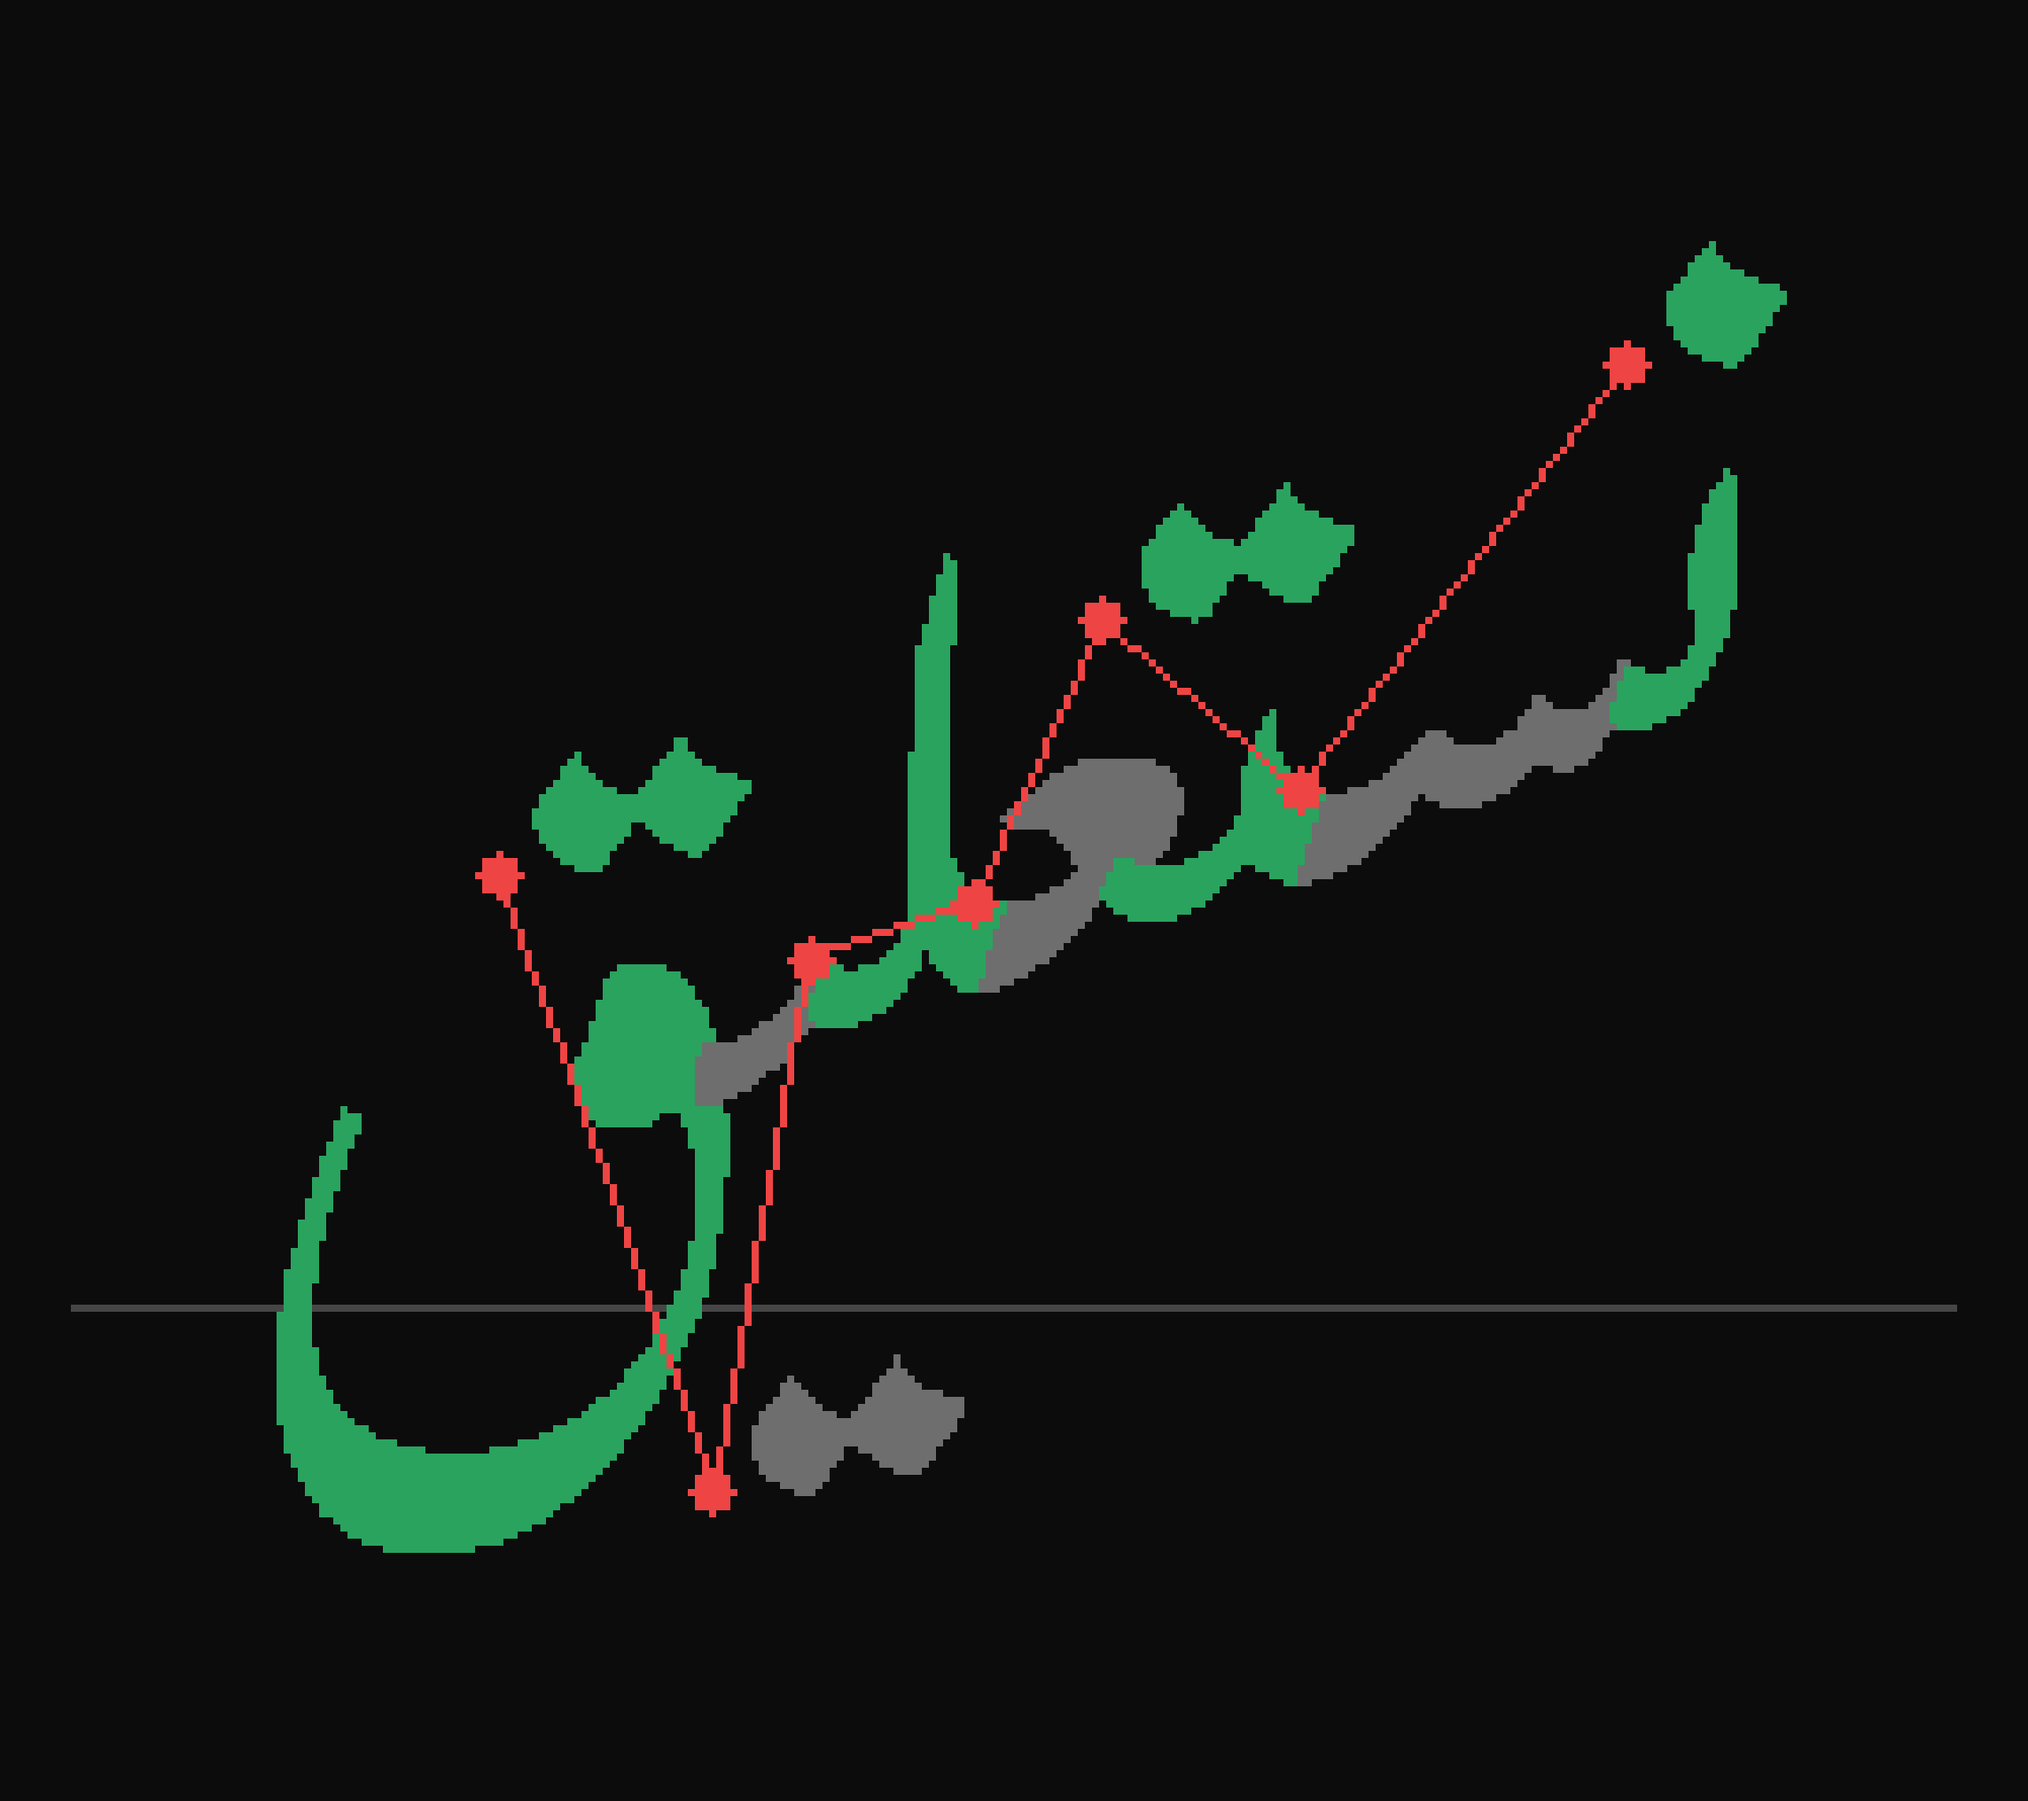
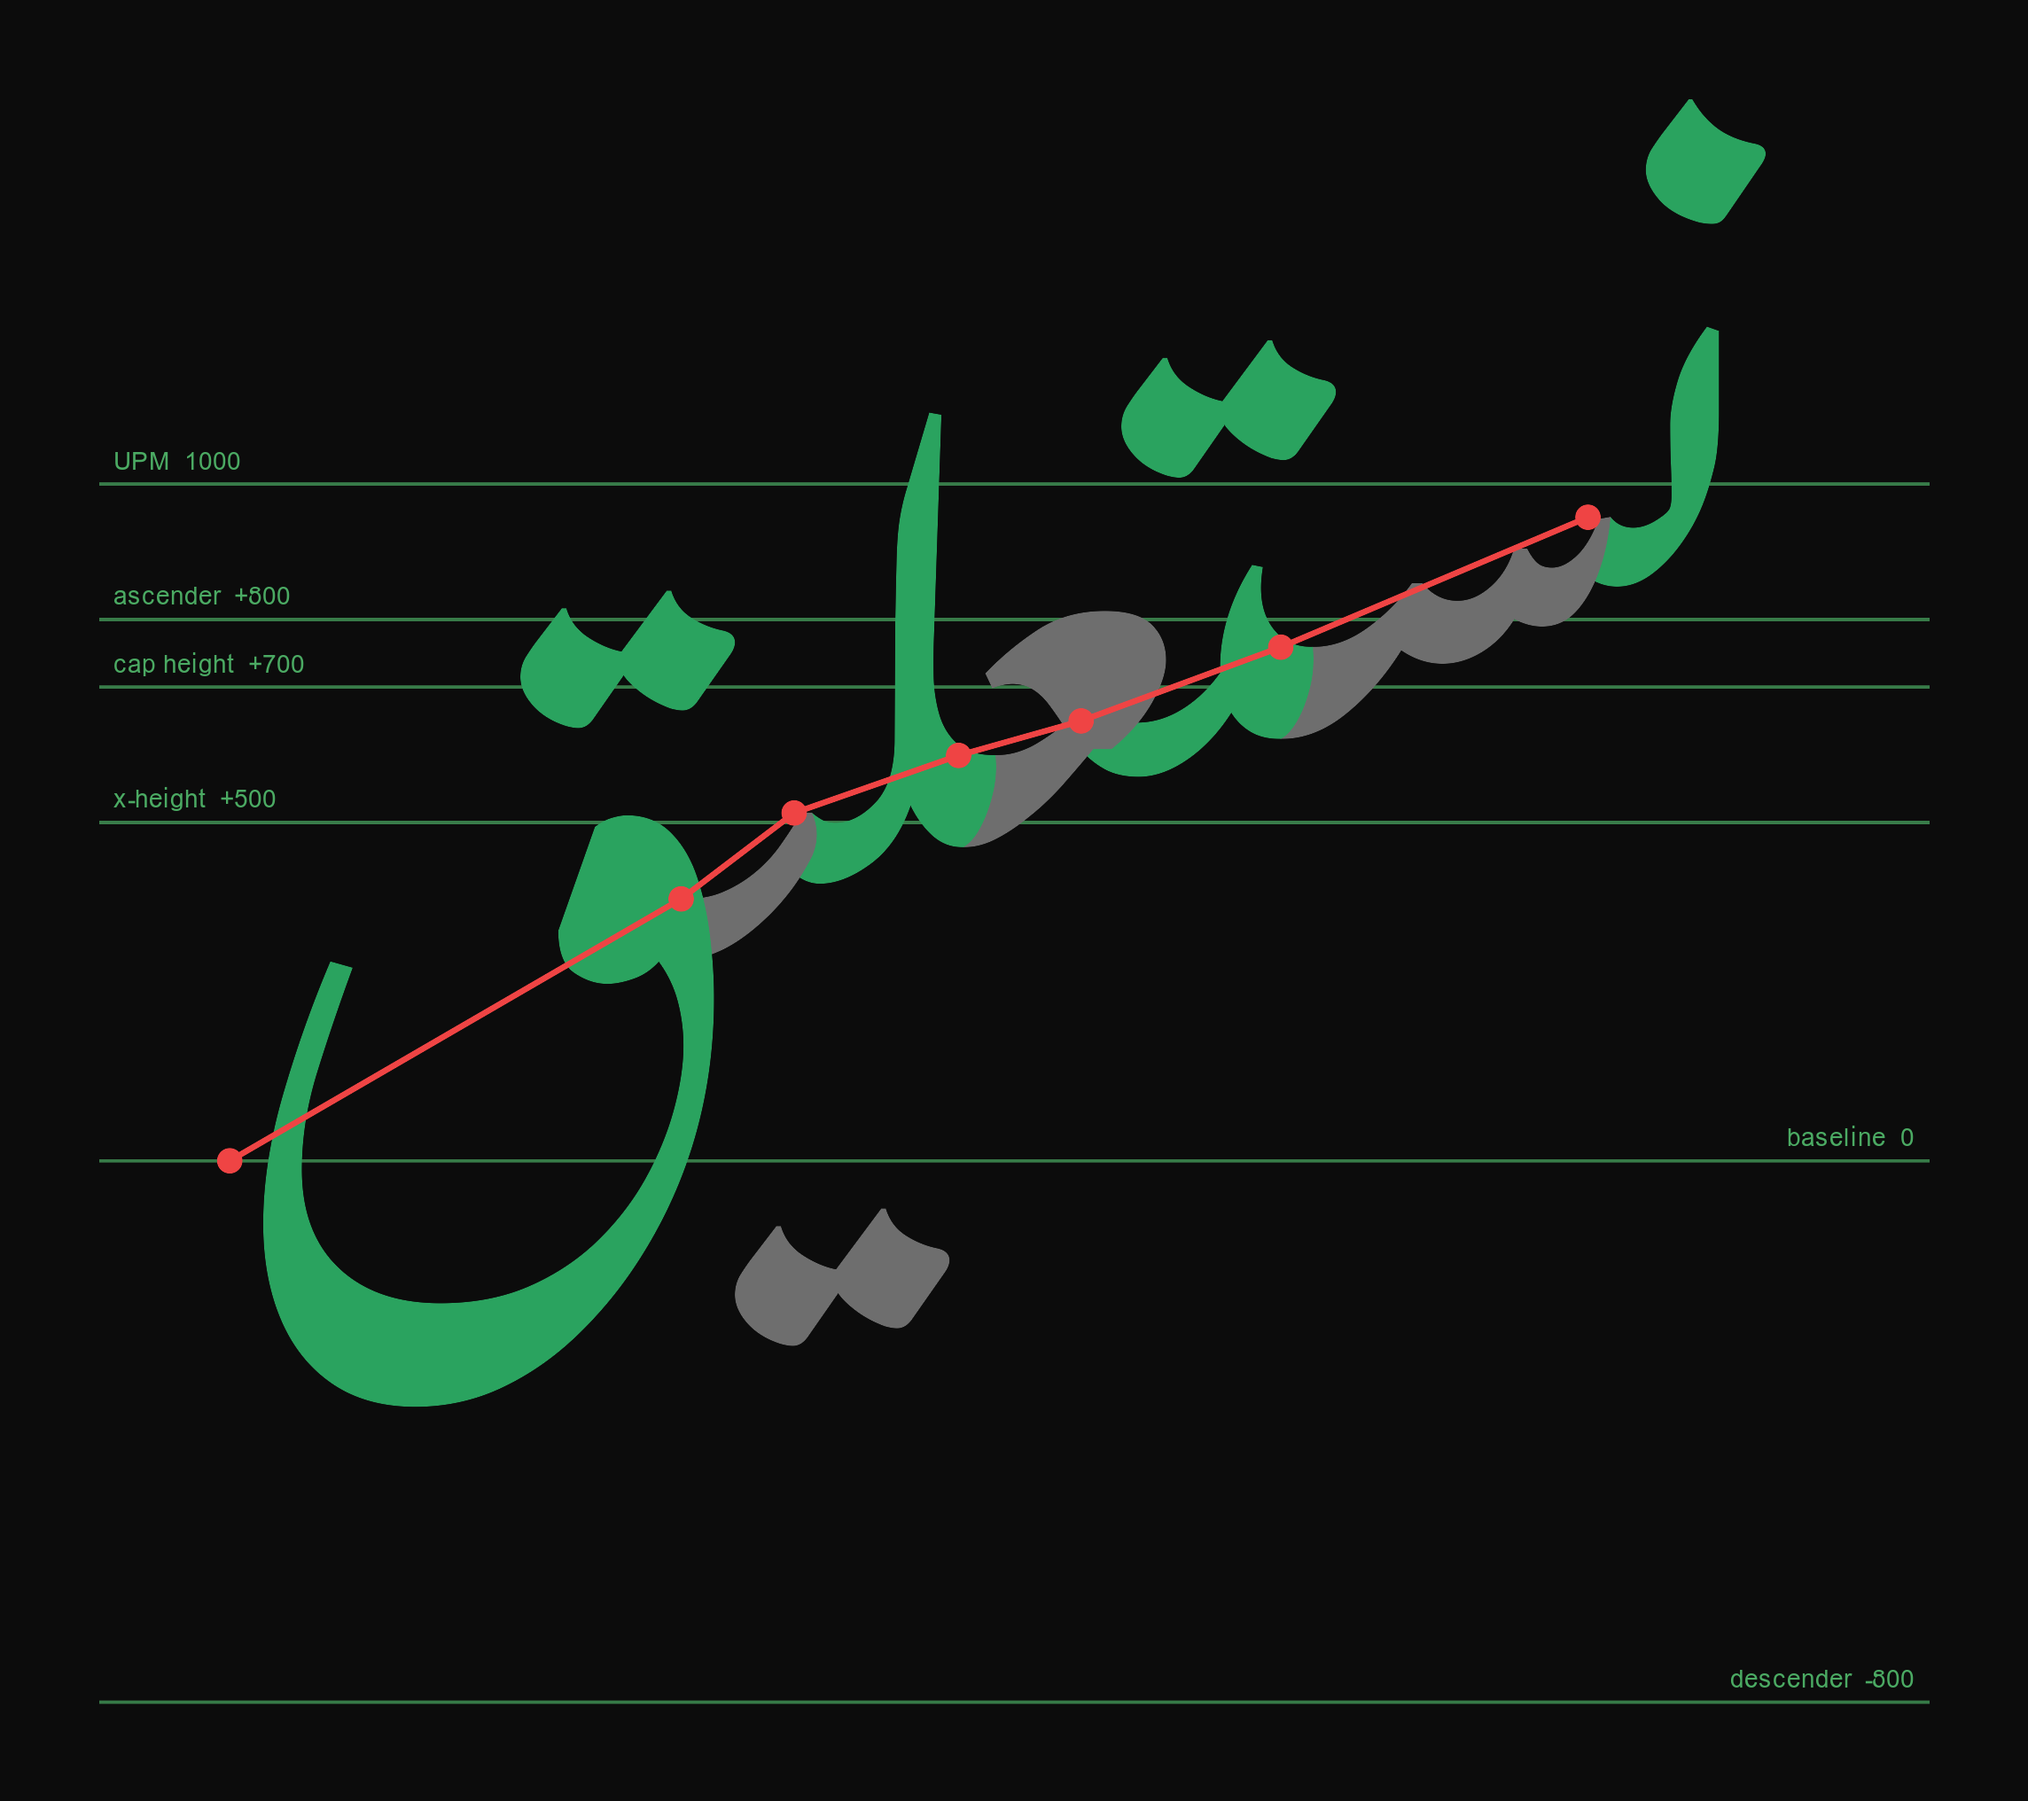
Update NeuralType Nastaliq blog post

diff --git a/scripts/nastaliq-distilled/render_cascade.py b/scripts/nastaliq-distilled/render_cascade.py
@@ -1,0 +1,181 @@
+#!/usr/bin/env python3
+"""Render the Gulzar cascade figure from the extracted cluster records."""
+
+import json
+import re
+import sys
+from pathlib import Path
+
+
+WORD = "نستعليق"
+WIDTH = 572
+HEIGHT = 508
+MARGIN = 28
+BACKGROUND = "#0c0c0c"
+GREEN = "#2aa35f"
+GRAY = "#6e6e6e"
+RED = "#ef4444"
+METRIC_GUIDE = "#66ee88"
+
+# Gulzar's master metrics from sources/Gulzar.glyphs. The compiled font uses
+# separate hhea and typo overrides for line spacing.
+UNITS_PER_EM = 1000
+ASCENDER = 800
+DESCENDER = -800
+X_HEIGHT = 500
+CAP_HEIGHT = 700
+
+# The first glyph in a Gulzar cluster is often a detached dot. These are the
+# main glyphs for the seven clusters in WORD, verified against glyphs.jsonl.
+EXPECTED_BASE_GIDS = [75, 641, 703, 40, 486, 686, 557]
+
+def path_bounds(path_d):
+    values = [float(value) for value in re.findall(r"-?\d+\.?\d*", path_d)]
+    xs = values[0::2]
+    ys = values[1::2]
+    return min(xs), min(ys), max(xs), max(ys)
+
+
+def load_data(source_repo):
+    extract = source_repo / "data" / "extract-gulzar"
+    glyph_paths = {}
+    with (extract / "glyphs.jsonl").open() as source:
+        for line in source:
+            record = json.loads(line)
+            glyph_paths[record["gid"]] = record["path"] or ""
+
+    clusters = []
+    with (extract / "contexts.jsonl").open() as source:
+        for line in source:
+            record = json.loads(line)
+            if record["word"] == WORD:
+                clusters.append(record)
+    clusters.sort(key=lambda record: record["index"])
+
+    base_gids = []
+    for index, cluster in enumerate(clusters):
+        base = next(
+            glyph
+            for glyph in cluster["glyphs"]
+            if glyph["gid"] == EXPECTED_BASE_GIDS[index]
+        )
+        cluster["base"] = base
+        base_gids.append(base["gid"])
+
+    if base_gids != EXPECTED_BASE_GIDS:
+        raise RuntimeError(f"unexpected base glyphs: {base_gids}")
+
+    return glyph_paths, clusters
+
+
+def render(glyph_paths, clusters):
+    placed = []
+    bounds = []
+    base_origins = []
+
+    for cluster in clusters:
+        cluster_paths = []
+        for glyph in cluster["glyphs"]:
+            path_d = glyph_paths[glyph["gid"]]
+            dx = cluster["ox"] + glyph["dx"]
+            dy = cluster["oy"] + glyph["dy"]
+            x0, y0, x1, y1 = path_bounds(path_d)
+            bounds.append((x0 + dx, y0 + dy, x1 + dx, y1 + dy))
+            cluster_paths.append((path_d, dx, dy))
+        placed.append(cluster_paths)
+
+        base = cluster["base"]
+        base_x = cluster["ox"] + base["dx"]
+        base_y = cluster["oy"] + base["dy"]
+        base_origins.append((base_x, base_y))
+
+    x0 = min(box[0] for box in bounds)
+    y0 = min(min(box[1] for box in bounds), DESCENDER)
+    x1 = max(box[2] for box in bounds)
+    y1 = max(max(box[3] for box in bounds), ASCENDER)
+    scale = min(
+        (WIDTH - 2 * MARGIN) / (x1 - x0),
+        (HEIGHT - 2 * MARGIN) / (y1 - y0),
+    )
+    tx = (WIDTH - (x1 - x0) * scale) / 2 - x0 * scale
+    ty = (HEIGHT - (y1 - y0) * scale) / 2 + y1 * scale
+
+    def point(x, y):
+        return tx + x * scale, ty - y * scale
+
+    elements = [f'<rect width="{WIDTH}" height="{HEIGHT}" fill="{BACKGROUND}"/>']
+
+    # Draw the five master metrics shown in Gulzar's Glyphs source.
+    metrics = (
+        (UNITS_PER_EM, "UPM  1000", "start"),
+        (ASCENDER, "ascender  +800", "start"),
+        (CAP_HEIGHT, "cap height  +700", "start"),
+        (X_HEIGHT, "x-height  +500", "start"),
+        (0, "baseline  0", "end"),
+        (DESCENDER, "descender  -800", "end"),
+    )
+    for height, label, anchor in metrics:
+        y = point(0, height)[1]
+        label_x = MARGIN + 4 if anchor == "start" else WIDTH - MARGIN - 4
+        elements.append(
+            f'<line x1="{MARGIN}" y1="{y:.3f}" '
+            f'x2="{WIDTH - MARGIN}" y2="{y:.3f}" '
+            f'stroke="{METRIC_GUIDE}" stroke-opacity="0.5" '
+            'stroke-width="0.8"/>'
+        )
+        elements.append(
+            f'<text x="{label_x}" y="{y - 4:.3f}" '
+            f'fill="{METRIC_GUIDE}" fill-opacity="0.7" '
+            f'font-family="sans-serif" font-size="7" text-anchor="{anchor}">'
+            f'{label}</text>'
+        )
+
+    for index, cluster_paths in enumerate(placed):
+        color = GREEN if index % 2 == 0 else GRAY
+        for path_d, dx, dy in cluster_paths:
+            elements.append(
+                f'<path d="{path_d}" fill="{color}" '
+                f'transform="translate({tx + dx * scale:.6f} '
+                f'{ty - dy * scale:.6f}) scale({scale:.8f} {-scale:.8f})"/>'
+            )
+
+    points = [point(x, y) for x, y in base_origins]
+    for (x1, y1), (x2, y2) in zip(points, points[1:]):
+        dx = x2 - x1
+        dy = y2 - y1
+        length = (dx * dx + dy * dy) ** 0.5
+        nx = -dy * 0.75 / length
+        ny = dx * 0.75 / length
+        corners = (
+            (x1 + nx, y1 + ny),
+            (x2 + nx, y2 + ny),
+            (x2 - nx, y2 - ny),
+            (x1 - nx, y1 - ny),
+        )
+        corner_string = " ".join(f"{x:.3f},{y:.3f}" for x, y in corners)
+        elements.append(
+            f'<polygon points="{corner_string}" fill="{RED}"/>'
+        )
+    for x, y in points:
+        elements.append(f'<circle cx="{x:.3f}" cy="{y:.3f}" r="3.5" fill="{RED}"/>')
+
+    return (
+        f'<svg xmlns="http://www.w3.org/2000/svg" width="{WIDTH}" height="{HEIGHT}" '
+        f'viewBox="0 0 {WIDTH} {HEIGHT}" shape-rendering="crispEdges">\n'
+        + "\n".join(elements)
+        + "\n</svg>\n"
+    )
+
+
+def main():
+    if len(sys.argv) != 2:
+        raise SystemExit("usage: render_cascade.py <output.svg>")
+
+    repo = Path(__file__).resolve().parents[2]
+    source_repo = repo.parent / "post-opentype"
+    glyph_paths, clusters = load_data(source_repo)
+    Path(sys.argv[1]).write_text(render(glyph_paths, clusters))
+
+
+if __name__ == "__main__":
+    main()
